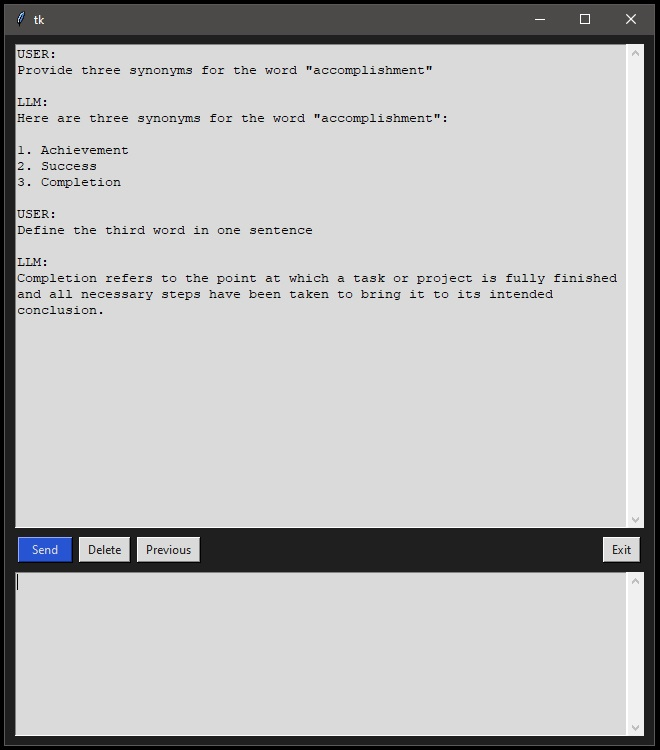
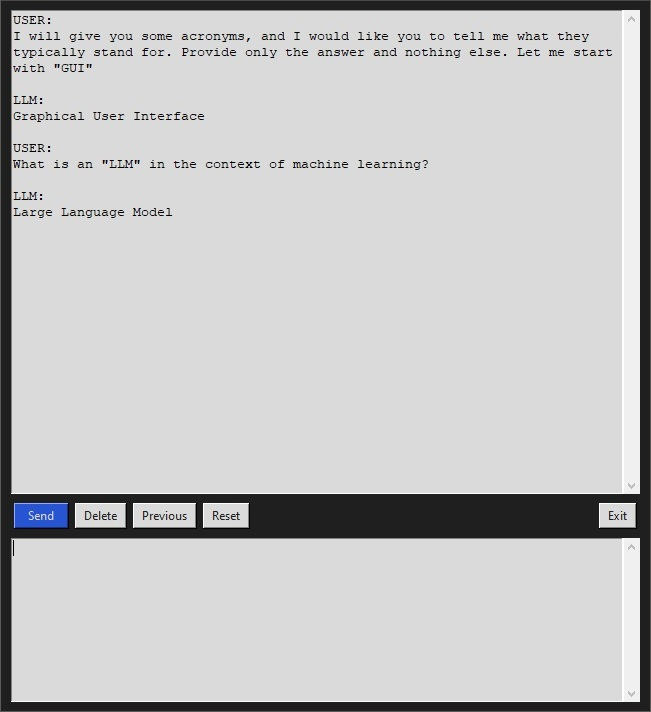
Rename script, update screenshot

diff --git a/README.md b/README.md
@@ -16,8 +16,9 @@ Assuming you have Python 3.8+ installed:
 2. Install and run [Ollama](https://ollama.com/)
 3. Download [Llama 3](https://ollama.com/library/llama3) by opening the command line and running
    - `ollama pull llama3`
+4. Make sure that Ollama is running, then start `llm_gui.py` and chat!
 
-4. Make sure that Ollama is running, then start `ui.py` and chat!
+Lastly, Windows users may use the `Start GUI.bat` script, which first starts Ollama with the Llama 3 model and then runs `llm_gui.py` to start the GUI.
 
 # How to Use
 
